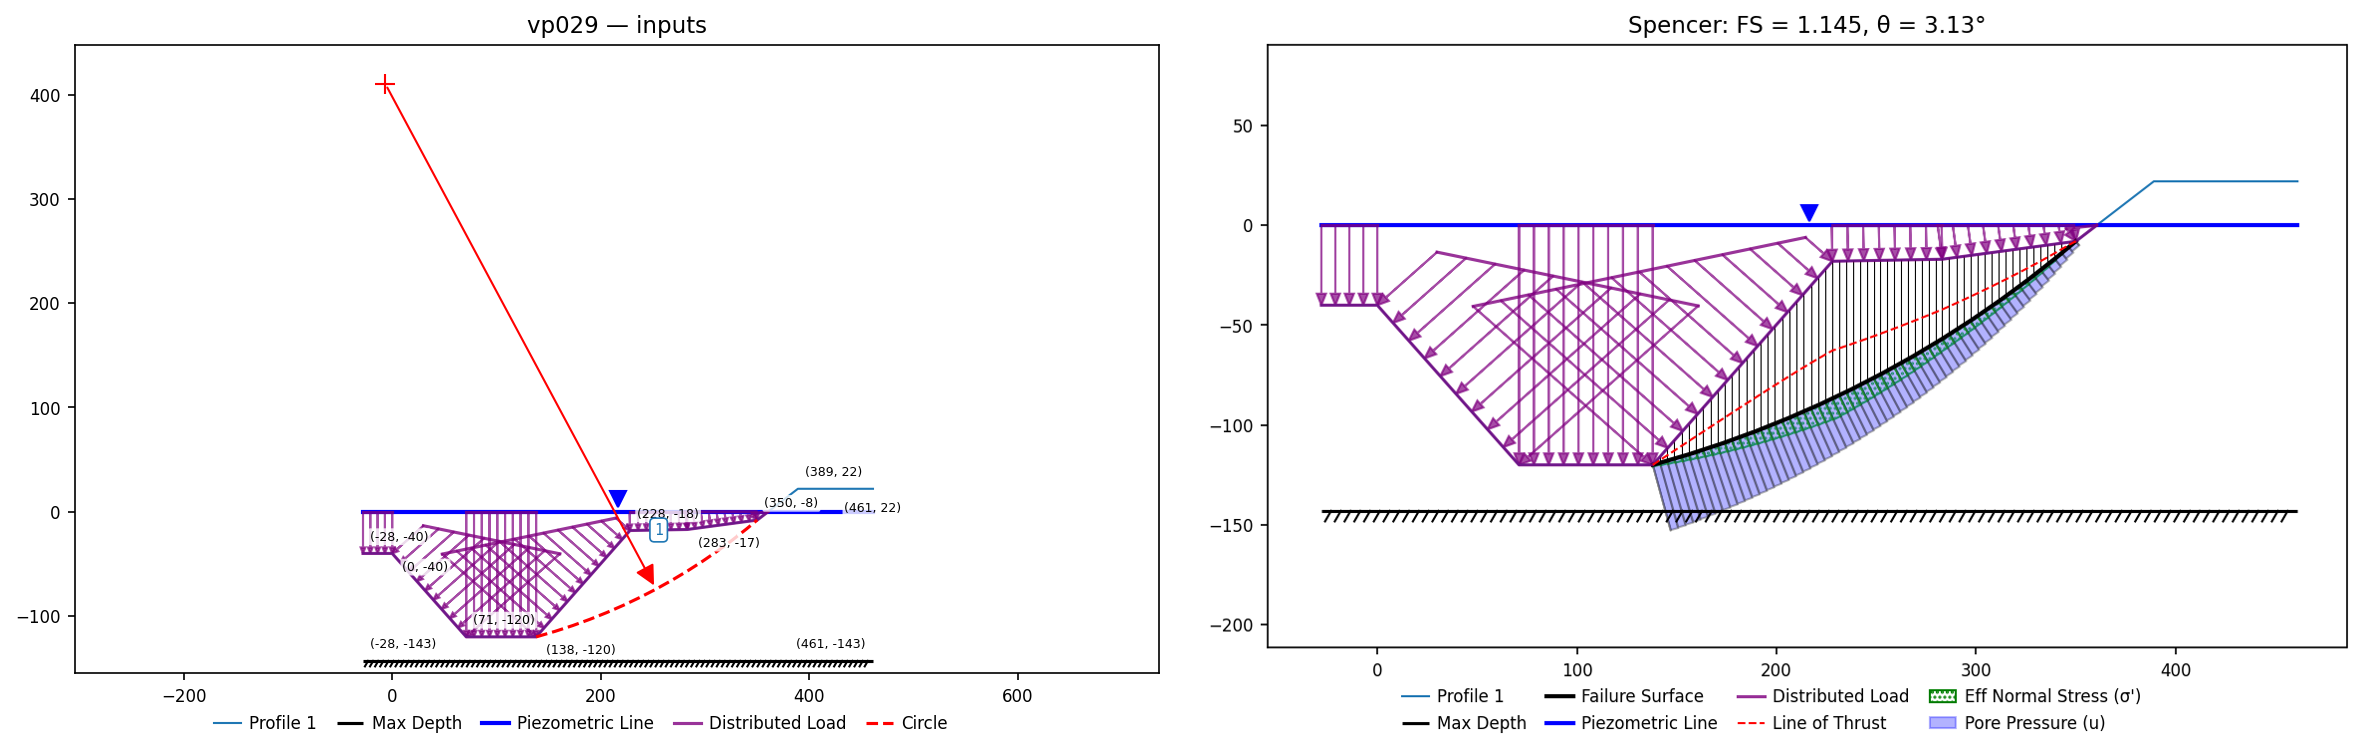
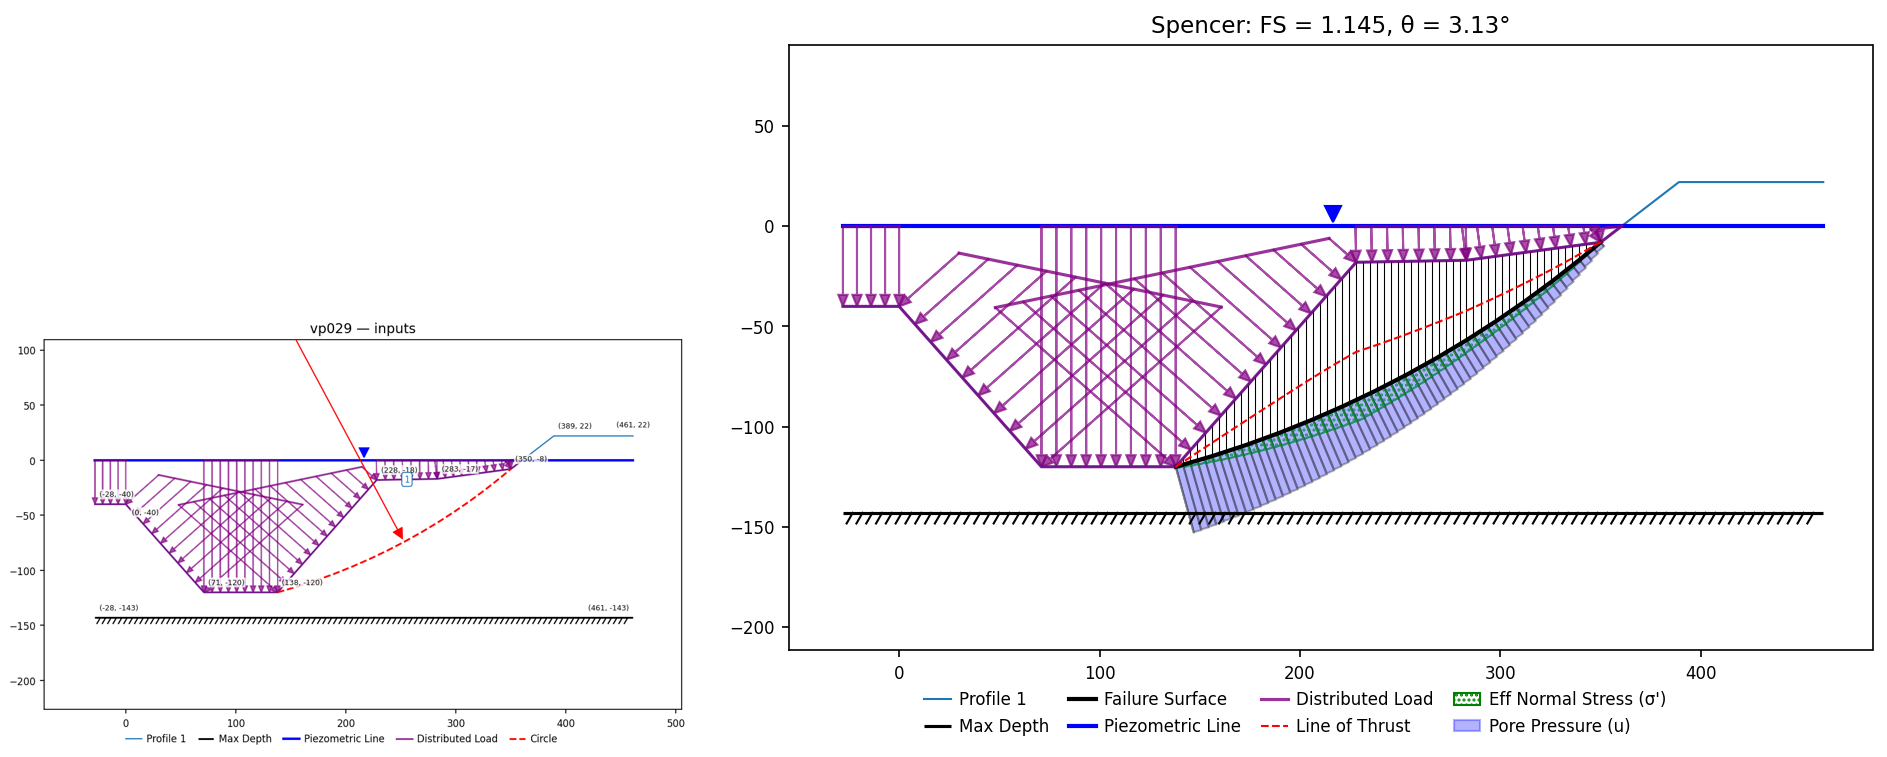
fix(plot): circle center marker no longer inflates the inputs-plot view
The center marker was a data artist, so a circle centered far above the
section (VP29: 400 ft up) forced autoscale to include it, squashing the
geometry into a strip. The marker now goes on via add_artist (annotation
layer) and the radius arrow clips at the axes edge — both still render
whenever the equal-aspect view reaches them. Regenerated vp029.png.

Claude-Session: https://claude.ai/code/session_01GyJZ1PU7NrCvqdhtDafGd1

diff --git a/xslope/plot.py b/xslope/plot.py
@@ -1073,8 +1073,12 @@ def plot_circles(ax, slope_data, style=None):
         ax.plot(x_clip, y_clip, color=c_color, linestyle=c_ls, linewidth=c_lw,
                 label="Circle", gid='CIRCLES')
 
-        # Center marker
-        ax.plot(Xo, Yo, marker='+', color=c_color, linestyle='None', markersize=10, gid='CIRCLES')
+        # Center marker — annotation layer (add_artist), not data: a center far
+        # above the section must not inflate the autoscaled view. It still
+        # draws whenever the equal-aspect view reaches it, and clips otherwise.
+        center_marker = Line2D([Xo], [Yo], marker='+', color=c_color,
+                               linestyle='None', markersize=10, gid='CIRCLES')
+        ax.add_artist(center_marker)
 
         # Arrow direction: point from center to midpoint of failure surface
         mid_idx = len(x_clip) // 2
@@ -1091,7 +1095,7 @@ def plot_circles(ax, slope_data, style=None):
             dy /= length
 
         # Draw arrow with pixel-based head size
-        ax.annotate('',
+        ann = ax.annotate('',
                     xy=(Xo + dx * R, Yo + dy * R),  # arrow tip
                     xytext=(Xo, Yo),                 # arrow start
                     arrowprops=dict(
@@ -1100,6 +1104,9 @@ def plot_circles(ax, slope_data, style=None):
                         lw=1.0,            # shaft width in points
                         mutation_scale=20  # head size in points
                     ))
+        # Annotations default to clip_on=False; with the center allowed outside
+        # the view, the shaft must stop at the axes edge.
+        ann.arrow_patch.set_clip_box(ax.bbox)
 
 def plot_non_circ(ax, non_circ, style=None):
     """
